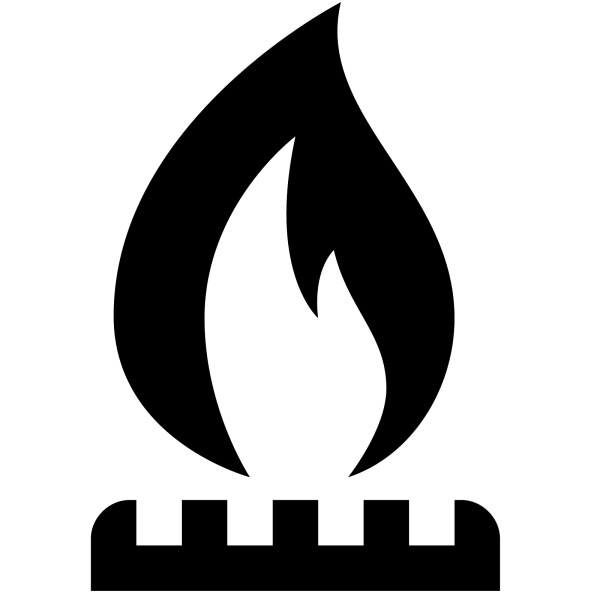
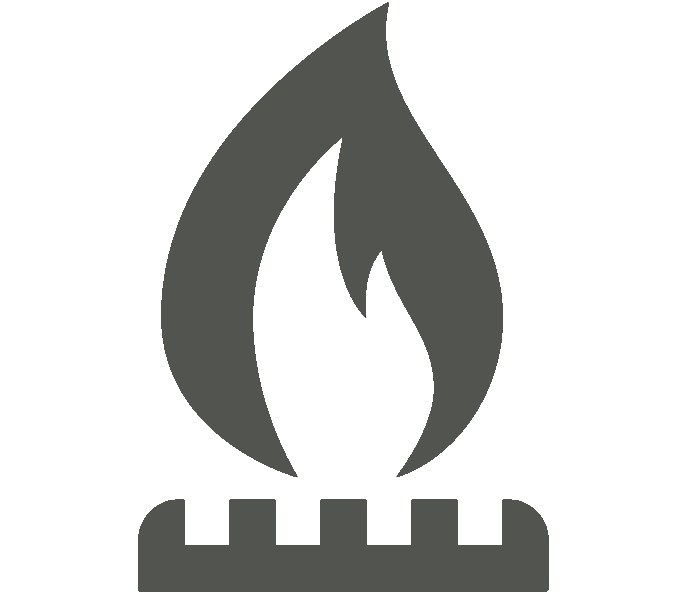
8/30 3:30 PM conditional classes and more bootstrap

diff --git a/Group3Project/ClientApp/src/app/calculate-capacity/calculate-capacity.component.html b/Group3Project/ClientApp/src/app/calculate-capacity/calculate-capacity.component.html
@@ -1,54 +1,108 @@
-<div class="container">
-  <div class="row">
-    <div class="col-md-6">
-      <div class="card">
-        <app-tod-changer (created)="getTOD($event)"></app-tod-changer>
-        <button (click)="getDemand()">0) and 2) Update Demand</button>
-        <button (click)="getRatio2()">3) Get plants</button>
-        <button (click)="calculateTotal()">4) Calculate Current Output</button>
-      </div>
-      <div class="card">
-        <p>Producing {{ total }}MW of Required {{ demand.response.data[0].value * 0.1 }} MW</p>
-        <p *ngIf="demand.response.data[0].value * 0.1 < total">
-          You have saved the city, congratulations!
-        </p>
-        <p *ngIf="demand.response.data[0].value * 0.1 >= total">
-          Millions are without power, fabulous.
-        </p>
+<div id="border">
+  <div
+    id="sky"
+    class="container"
+    [ngClass]="{
+      Night: TODStatus.time == 'T10',
+      Morning: TODStatus.time == 'T14',
+      Midday: TODStatus.time == 'T20',
+      Evening: TODStatus.time == 'T01'
+    }"
+  >
+    <div class="row">
+      <div class="col-md-6 col-12">
+        <div class="card">
+          <app-tod-changer (created)="getTOD($event)"></app-tod-changer>
+          <button (click)="getDemand()">0) and 2) Update Demand</button>
+          <button (click)="getRatio2()">3) Get plants</button>
+          <button (click)="calculateTotal()">
+            4) Calculate Current Output
+          </button>
+        </div>
+        <div class="offset-md-4 col-md-6 col-12">
+          <div class="card">
+            <p>
+              Producing {{ total }}MW of Required
+              {{ demand.response.data[0].value * 0.1 }} MW
+            </p>
+            <p *ngIf="demand.response.data[0].value * 0.1 < total">
+              You have saved the city, congratulations!
+            </p>
+            <p *ngIf="demand.response.data[0].value * 0.1 >= total">
+              Millions are without power, fabulous.
+            </p>
+          </div>
+        </div>
       </div>
     </div>
   </div>
-</div>
 
+  <div
+    id="ground"
+    class="container"
+    [ngClass]="{
+      Winter: TODStatus.season == '2021-02',
+      Spring: TODStatus.season == '2021-04',
+      Summer: TODStatus.season == '2021-08',
+      Fall: TODStatus.season == '2021-10'
+    }"
+  >
+    <div class="row" *ngIf="loaded">
+      <div class="col-md-2 col-sm-6 col-6" *ngFor="let plant of allPlants">
+        <!-- [ngClass]="{ Running: plant.powState, Off: !plant.powState }" -->
 
-<div class="container">
-  <div class="row" *ngIf="loaded">
-    
-      <div class="col-md-2" *ngFor="let plant of allPlants" [ngClass]="{ Running: plant.powState, Off: !plant.powState }">
-        <div class="card">
+        <div
+          class="card mt-3"
+          [ngClass]="{ Running: plant.powState, Off: !plant.powState }"
+        >
           <div class="card-body">
-          <!-- <img src="../../assets/LEAF.png" /> -->
-          <p>{{ checkPower(plant.id) }} MW / {{ plant.nameplateCapacity }} MW</p>
-          <!-- <p>fuel ID: {{ plant.fuelId }}</p> -->
-          <img *ngIf="plant.fuelId==1" src="../../assets/nuclear.png" />
-          <img *ngIf="plant.fuelId==2" src="../../assets/natural_gas.png" />
-          <img *ngIf="plant.fuelId==3" src="../../assets/Coal-power-plant.png" />
-          <img *ngIf="plant.fuelId==5" src="../../assets/Hydroelectric-power-plant.png" />
-          <img *ngIf="plant.fuelId==6" src="../../assets/Wind-power.svg" />
-          <img *ngIf="plant.fuelId==7" src="../../assets/Solar-energy.png"/>
-          <!--  <p>{{plant.powState}}</p>-->
-          <button *ngIf="!plant.powState" (click)="togglePower(plant.id)">
-            Power On
-          </button>
-          <button *ngIf="plant.powState" (click)="togglePower(plant.id)">
-            Power Off
-          </button>
-          <button (click)="removePlant(plant.id)">Delete Plant</button>
-        </div>
-        </div>
+            <!-- <img src="../../assets/LEAF.png" /> -->
+            <button *ngIf="!plant.powState" (click)="togglePower(plant.id)">
+              Power On
+            </button>
+            <button *ngIf="plant.powState" (click)="togglePower(plant.id)">
+              Power Off
+            </button>
+            <p>{{ checkPower(plant.id) }} / {{ plant.nameplateCapacity }} MW</p>
+            <!-- <p>fuel ID: {{ plant.fuelId }}</p> -->
+            <img
+              class="Display"
+              *ngIf="plant.fuelId == 1"
+              src="../../assets/nuclear.png"
+            />
+            <img
+              class="Display"
+              *ngIf="plant.fuelId == 2"
+              src="../../assets/natural_gas.png"
+            />
+            <img
+              class="Display"
+              *ngIf="plant.fuelId == 3"
+              src="../../assets/Coal-power-plant.png"
+            />
+            <img
+              class="Display"
+              *ngIf="plant.fuelId == 5"
+              src="../../assets/Hydroelectric-power-plant.png"
+            />
+            <img
+              class="Display"
+              *ngIf="plant.fuelId == 6"
+              src="../../assets/Wind-power.svg"
+            />
+            <img
+              class="Display"
+              *ngIf="plant.fuelId == 7"
+              src="../../assets/Solar-energy.png"
+            />
+            <!--  <p>{{plant.powState}}</p>-->
+
+            <button (click)="removePlant(plant.id)">Delete Plant</button>
+          </div>
         </div>
       </div>
-      <!-- <p>Actual Output:{{ getNetOutput(plant.fuelId) }}</p> -->
+    </div>
+    <!-- <p>Actual Output:{{ getNetOutput(plant.fuelId) }}</p> -->
   </div>
-<br />
-<!-- <img class="tester" src="../../assets/LEAF.png" /> -->
+  <!-- <img class="tester" src="../../assets/LEAF.png" /> -->
+</div>

diff --git a/Group3Project/ClientApp/src/app/calculate-capacity/calculate-capacity.component.css b/Group3Project/ClientApp/src/app/calculate-capacity/calculate-capacity.component.css
@@ -2,19 +2,22 @@
     border: 2px black;
 }
 .Running{
-    color: green
+    /* color: green; */
+    background-color: #a4de73;
     
 }
 
 .Running img{
-    filter: invert(48%) sepia(13%) saturate(3207%) hue-rotate(130deg) brightness(95%) contrast(60%);
+    /* filter: invert(48%) sepia(13%) saturate(3207%) hue-rotate(130deg) brightness(95%) contrast(60%); */
     /* filter: hue-rotate(130deg) sepia(13%) saturate(3207%)invert(48%); */
 
-    width: 50px;
-    height: 50px;
+    width: 100px;
+    height: 100px;
+    color: 
+    #51544f;
 }
 .tester{
-    filter: invert(48%) sepia(13%) saturate(1000%) hue-rotate(18deg) brightness(95%) contrast(60%);
+    /* filter: invert(48%) sepia(13%) saturate(1000%) hue-rotate(18deg) brightness(95%) contrast(60%); */
     /* filter: hue-rotate(130deg) sepia(13%) saturate(3207%)invert(48%); */
 
     width: 100px;
@@ -22,13 +25,66 @@
 }
 
 .Off {
-    color: #e65245;
+    /* color: #e65245; */
+    background-color: #f65a83;
     
 }
 
 .Off img {
     /* filter: invert(48%) sepia(13%) saturate(3207%) hue-rotate(130deg) brightness(95%) contrast(80%); */
-    width: 50px;
-    height: 50px;
+    width: 100px;
+    height: 100px;
     filter:hue-rotate(0deg);
+    color: 
+    #51544f;
+}
+
+.Display{
+    color: 
+    #51544f;
+}
+
+
+.Night{
+    background-color: 
+    #295a94;
+}
+
+.Morning{
+    background-color: #5294d5;
+}
+
+.Midday{
+    background-color: 
+    #62bdff;
+}
+
+.Evening{
+    background: linear-gradient(0deg, rgba(255,164,189,1) 0%, rgba(246,230,74,1) 100%);
+
+}
+
+.Winter{
+    background-color: 
+    #d9d9d9;
+}
+
+.Spring{
+    background-color: 
+    #73c55a;
+}
+
+.Summer{
+    background-color: 
+    #5a9452;
+}
+
+.Fall{
+    background-color: 
+    #d1ab59;
+}
+
+#border{
+    border: 5px black solid;
+    
 }
